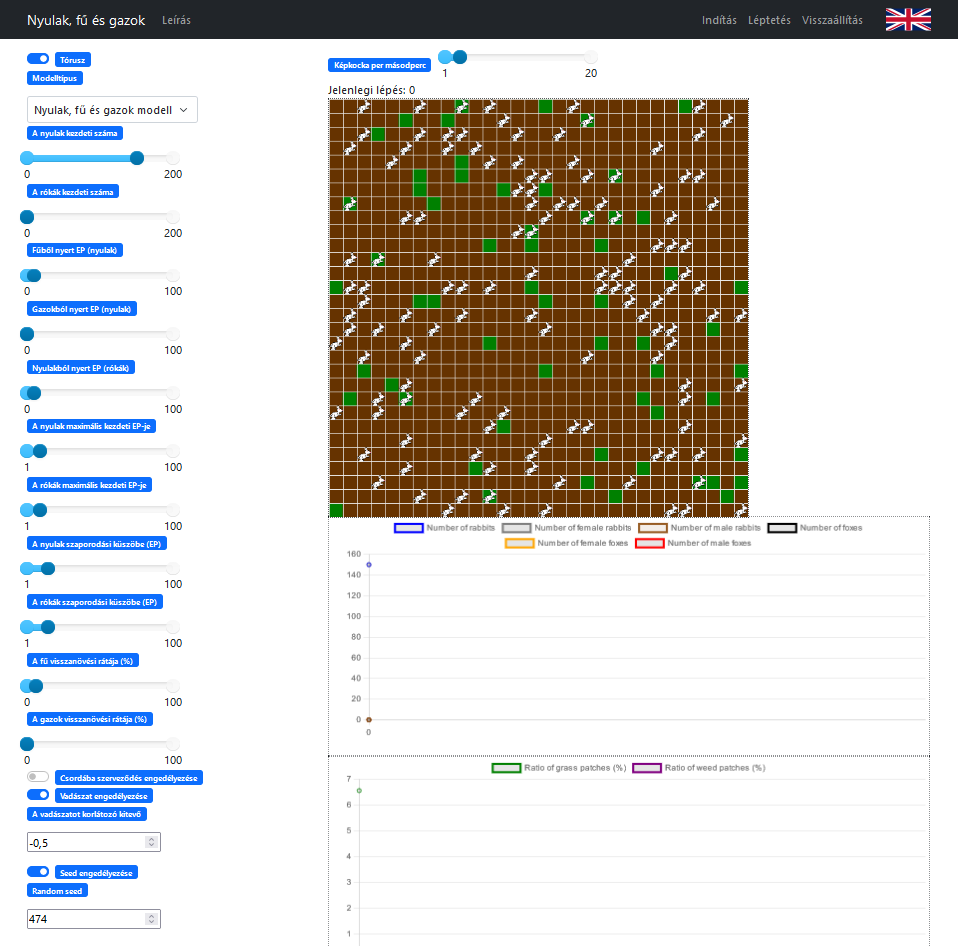
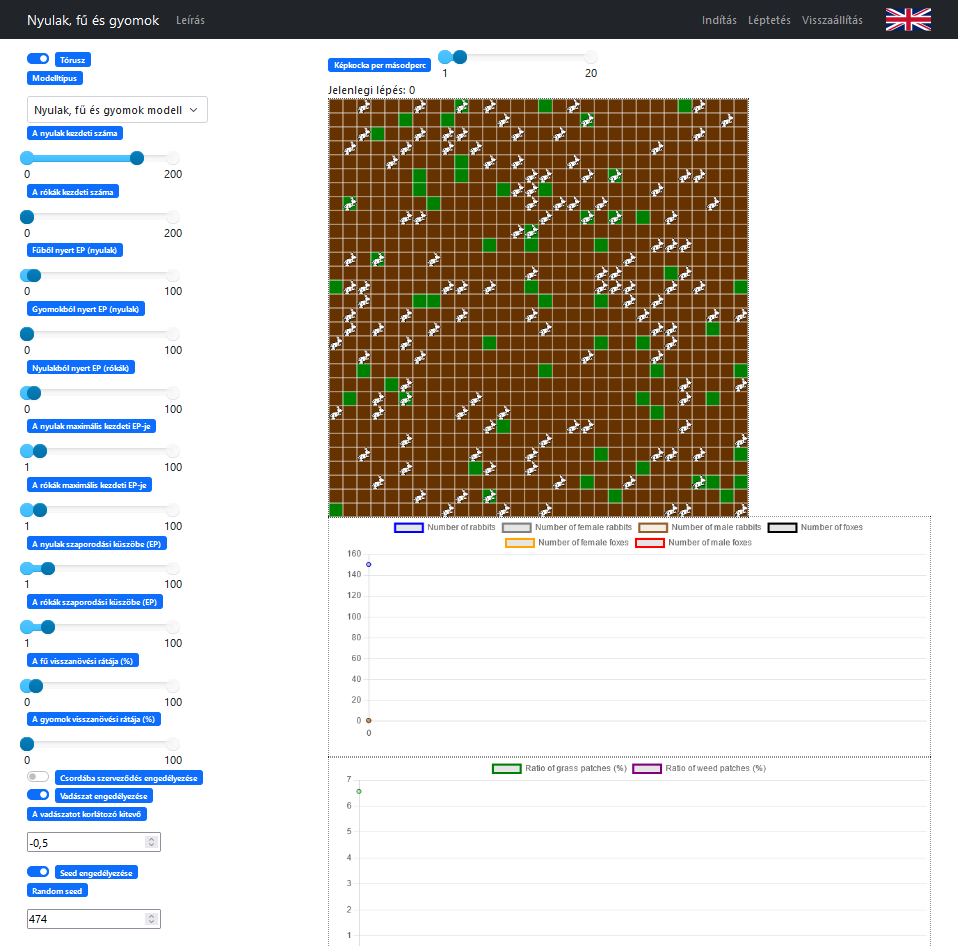
Documentation progress

diff --git a/rabbitgrassweed/js/LangSwitch.js b/rabbitgrassweed/js/LangSwitch.js
@@ -12,7 +12,7 @@ navbar.innerHTML += `
 `
 
 // Initialize description
-fetch("rabbitgrassweed/text/eng_description.md")
+fetch("rabbitgrassweed/docs/eng_description.md")
     .then(response => response.text())
     .then(text => description.innerHTML = text)
 
@@ -58,7 +58,7 @@ function HeaderToHun() {
     document.getElementsByClassName("navbar-brand")[0].innerText = "Nyulak, fű és gyomok"
     document.getElementsByClassName("modal-title")[0].innerText = "Nyulak, fű és gyomok leírás"
 
-    fetch("rabbitgrassweed/text/hun_description.md")
+    fetch("rabbitgrassweed/docs/hun_description.md")
         .then(response => response.text())
         .then(text => description.innerHTML = text)
 }
@@ -145,7 +145,7 @@ function HeaderToEng() {
     document.getElementsByClassName("navbar-brand")[0].innerText = "Rabbits, Grass and Weeds"
     document.getElementsByClassName("modal-title")[0].innerText = "About Rabbits, Grass and Weeds"
 
-    fetch("rabbitgrassweed/text/eng_description.md")
+    fetch("rabbitgrassweed/docs/eng_description.md")
         .then(response => response.text())
         .then(text => description.innerHTML = text)
 }

diff --git a/rabbitgrassweed/docs/hun_description.md b/rabbitgrassweed/docs/hun_description.md
@@ -5,29 +5,31 @@
 <h2>Előszó</h2>
 
 A "Nyulak, fű és gyomok" egy NetLogoban készült ágens alapú modell saját programozású mesa implementációja, illetve továbbfejlesztése.
-Ez a modell egy növényevőfaj és annak kétféle táplálékának populációinak együttélését modellezi háromféleképpen.
+Ez a modell egy növényevőfaj és annak kétféle táplálékának populációinak együttélését modellezi.
 Az alapértelmezett modelltípus az eredeti modellt hivatott a lehető leghűbben implementálni, míg a "Bővített modell" típusban az egyedenek neme is van.
+
+Egy ilyen modellt főként a mezőgazdaság és a természetvédelem területén lehet hasznosítani. A mezőgazdaságon belül az állattartás megtervezésénél lehet hasznos, míg a természetvédelemben a veszélyeztetett fajok érdekében történő beavatkozások hatásai szimulálhatók. Természetesen pontosan ez a modell egyikre sem alkalmas, mert primitív, azonban egy kiindulási alapként szolgálhat. A modell jelenlegi állapotában főként szemléltetésre használható.
 
 <h2>A modelltípusok működési jellemzői</h2>
 
 <h3>Közös jellemzők</h3>
 
 Mindkét modelltípusban van egy növényevőfaj, amelyet nyulakkal reprezentálunk.
-Ezek a nyulak egy olyan területen élnek, ahol fű és gyomok nőhetnek valószínűségi alapon, amelyeknek különböző a tápértéke.
-Továbbá minden egyednek van valamennyi energiája (továbbiakban energiapont, röviden EP), amely minden lépésben (a modell állapotváltozása) eggyel csökken, de evés által a megevett táplálék típusától függő paraméternyivel megnő. Ha elfogy az energiájuk, akkor meghalnak. Ezek mellett képesek is szaporodni, amennyiben egy megadott szint feletti energiapontjuk van, azonban ekkor az energiájuk megfeleződik. A modell egy lépésében a nyúl ágensek egy szomszédos cellába lépnek át, ahol a szomszédos cellák a Moore-féle szomszédokat jelenti az ágens aktuális cellájának kivételével, tehát a nyúl ágensek nem maradhatnak egy helyben.
+Ezek a nyulak egy olyan területen élnek, ahol fű vagy gyomok nőhetnek valószínűségi alapon, amelyeknek van egy adott tápértéke.
+Továbbá minden egyednek van valamennyi energiája (továbbiakban energiapont, röviden EP), amely minden lépésben (a modell állapotváltozása) eggyel csökken, de evés által a megevett táplálék típusától függő paraméternyivel megnő. Ha elfogy az energiájuk, akkor meghalnak. Ezek mellett képesek is szaporodni, amennyiben egy megadott szint feletti energiapontjuk van, azonban ekkor az energiájuk megfeleződik. A modell egy lépésében az állat ágensek egy szomszédos cellába lépnek át, ahol a szomszédos cellák a Moore-féle szomszédokat jelentik az ágens aktuális cellájának kivételével, tehát az állat ágensek nem maradhatnak egy helyben.
 
-Az energiapontról annyit érdemes tudni, hogy a program eggyel kevesebb energiaponttal dolgozik, mint ami egy állaton látható a vizualizációs alkalmazásban, ha rájuk tesszük a kurzort. Ez azt hivatott korrigálni, hogy a szaporodási küszöb és a kezdeti maximális EP paraméterek szigorú egyenlőtleséggel működnek. Ezen paraméterek csúszkái a kijelzett értékek szerint állíthatók. Tehát a felhasználónak az alkalmazás legalább 1 EP-t jelez. Az állatokra rátéve a kurzort látható egy "Layer: 1" érték is, ami réteget jelent és kötelező érték. A fű ágenseknél ez az érték 0 és ennek köszönhető, hogy csak az állatokon jelenik meg ez a jelzés.
+Az energiapontról annyit érdemes tudni, hogy a program eggyel kevesebb energiaponttal dolgozik, mint ami egy állaton látható a vizualizációs alkalmazásban, ha rájuk tesszük a kurzort. Ez azt hivatott korrigálni, hogy a szaporodási küszöb és a kezdeti maximális EP paraméterek szigorú egyenlőtlenséget használnak. Ezen paraméterek csúszkái a kijelzett értékek szerint állíthatók. Tehát a felhasználónak az alkalmazás legalább 1 EP-t jelez. Az állatokra rátéve a kurzort látható egy "Layer: 1" érték is, ami réteget jelent és nem elhagyható. A fű ágenseknél ez a réteg 0 és ennek köszönhető, hogy csak az állatokon jelenik meg ez a jelzés.
 
-Az eredeti modellben a fű és gyomok mint "patchek" voltak a cellákba helyezve, míg ebben az implementációban ágensként.
-Mindkét modelltípus esetén a füvet és a gyomokat egy közös fű ágens kezeli, amennyiből annyi van, ahány cella. A fű ágenseknek két állapota van, kinőtt és lelegelt.
+Az eredeti modellben a fű és a gyomok mint "patchek" voltak a cellákba helyezve, míg ebben az implementációban ágensként.
+A füvet és a gyomokat egy közös fű ágens kezeli, amennyiből annyi van, ahány cella. A fű ágenseknek két állapota van, kinőtt és lelegelt.
 Fontos tulajdonság, hogy a cellákban nagyobb valószínűséggel nő ki fű, mint gyomok. Ennek az az oka, hogy először az dől el, hogy gyomok nőhetnek-e ki és utána, hogy fű, azonban ez felülírja gyomokat, amennyiben bekövetkezik. Tehát, ha fű kinőhet a megadott valószínűség szerint, akkor fű nő ki függetlenül attól, hogy gyomok kinőhetnek-e vagy sem. Ez a viselkedés az eredeti modellből származik.
 
-A modell továbbfejlesztése céljából, lehetőség van egy ragadozófaj hozzáadásához, amelyet rókákkal reprezentálunk. A rókák alapértelmezetten ugyanúgy működnek, mint a nyulak, de természetesen a rókák a nyulakat eszik meg. A rókák rendelkeznek a nyulakéhoz hasonló paramétererekkel.
+A modell továbbfejlesztése céljából lehetőség van egy ragadozófaj hozzáadásához, amelyet rókákkal reprezentálunk. A rókák alapvetően ugyanúgy viselkednek, mint a nyulak, de természetesen a rókák a nyulakat eszik meg. Emellett képesek aktívan is vadászni, vagyis csak olyan szomszédos cellába lépni, amelyben van nyúl.
 
 A paraméterek sorrendben és alapértelmezett értékük:
 
 <ul>
-<li>A rács szélessége és magassága, ami csak a kód módosításával állítható. Ennek a vizualizációs alkalmazás korlátai az oka.
+<li>A rács szélessége és magassága, ami csak a kód módosításával állítható a vizualizációs alkalmazás korlátai miatt.
 <br><i>30 x 30</i></li>
 <li>Tórusz: Ha egy állat ágens a rács szélén van, akkor átléphetnek-e a szemben lévő szélre vagy sem.
 <br><i>Igaz</i></li>
@@ -45,7 +47,7 @@ A paraméterek sorrendben és alapértelmezett értékük:
 <br><i>10 és 10</i></li>
 <li>A nyulak és rókák szaporodási küszöbe. Legalább ennyi energiapontra van szüksége egy egyednek a szaporodáshoz.
 <br><i>15 és 15</i></li>
-<li>A fű és gyomok kinövési valószínűsége százalékban. Az eredeti modellben ezrelékben, de a csúszkák ilyen sűrű beosztásű intervallumon pontatlanok.
+<li>A fű és a gyomok kinövési valószínűsége százalékban. Az eredeti modellben ezrelékben, de a csúszkák ilyen sűrű beosztású intervallumon pontatlanok.
 <br><i>6%, eredetileg 15 ezrelék, vagyis 1,5%</i></li>
 <li>A nyulak csordába igyekezzenek-e szerveződni.
 <br><i>Hamis</i></li>
@@ -53,7 +55,7 @@ A paraméterek sorrendben és alapértelmezett értékük:
 <br><i>Igaz</i></li>
 <li>A vadászatot korlátozó kitevő. Lásd lejjebb!
 <br><i><math xmlns="http://www.w3.org/1998/Math/MathML"><mo>-</mo><mn>0,5</mn></math></i></li>
-<li>A random függvényeket szabályzó seed. A seed segítségével reprodukálhatóvá válnak a futtattások, de kikapcsolható.
+<li>A random függvényeket szabályzó seed. A seed segítségével reprodukálhatóvá válnak a futtatások, de kikapcsolható.
 <br><i>Igaz és 474</i></li>
 </ul>
 
@@ -82,11 +84,15 @@ Tehát, ha a kitevő 0, akkor nincs korlátozás. Fontos megjegyezni, hogy a kit
 <h2>Megfigyelések</h2>
 
 A modell elemzés céljából legérdekesebb tulajdonsága a stabilitás, vagyis, hogy a modellben szereplő fajok kihalnak-e vagy sem.<br>
-A fent leírt alapértelmezett paraméterek esetén, amelyek a fű kinövési valószínűsége és az újak kivételével az eredeti modellből származnak, jellemző a stabilitás. A rókákat érintő paraméterek úgy lettek beállítva, hogy 50 kezdeti róka esetén is stabil legyen a modell. Ez utóbbi eset futattható lejjebb és 10000 lépés után is stabil.
+A fent leírt alapértelmezett paraméterek esetén, amelyek a fű kinövési valószínűsége és az újak kivételével az eredeti modellből származnak, jellemző a stabilitás. A rókák paraméterei úgy lettek beállítva, hogy 50 kezdeti róka esetén is stabil legyen a modell. Ez utóbbi eset futtatható lejjebb és 10 000 lépés után is stabil.
 
-Érdekes jelenség, hogy teljesen különböző paraméterek mellett is az indítás után az állatok száma lezuhan, de előfordulhat, hogy a zuhanást egy hirtelen növekedés előzi meg.
+Érdekes jelenség, hogy teljesen különböző paraméterek mellett is az indítás után az állatok száma lezuhan, de előfordulhat, hogy a zuhanást egy kis növekedés előzi meg, azonban ez a seedtől függ.
 
-A
+A modell akkor is stabil marad, ha a modelltípust átállítjuk, azonban rókákkal már ez nem teljesül, mert a rókák kihalnak. Mindkét modelltípusban megmarad a stabilitás, ha a gyomok szaporodási valószínűségét 12% állítjuk, de a gyomok tápértéke továbbra is 0.
+
+Ha a kezdeti rókák száma 50 és az aktív vadászat ki van kapcsolva, akkor a rókák csak úgy élhetnek túl, ha valamilyen paramétert átállítunk. Több teszt futtatása után a nyulak tápértékének növelése bizonyult kifizetődőnek. A minimális tápérték amellett stabil a modell az 12.
+
+A bővített modell rókákkal együtt jellemzően nem stabil, ami a rókák kihalását jelenti, de a nyúl populáció ezután stabilizálódik. Csak szélsőséges paraméterek mellett jellemző a nyulak kihalása. A rókák kihalása jellemzően úgy zajlik, hogy az említett kezdeti csökkenés után a nyulak száma megugrik, amelyet követ a rókák gyarapodása, de már kis mértékű gyarapodás után a nyulak száma olyan szintre zuhan, ami nem képes eltartani a rókákat, így a rókák kihalnak, amely kihalást a rókák aktív vadászata csak felgyorsít. Az egyik legjobb eredmény az, hogy a rókák száma 30 körül marad tartósan, de ugyanezen paraméterek mellett 474-es seeddel ez a szám csak 10. A paraméterek ehhez a kísérlethez a rókák kezdeti száma 75, a nyulak tápértéke 10 EP, a rókák szaporodási küszöbe 30 EP, fű 15% eséllyel nő újra, a rókák nem vadásznak aktívan, seed nem engedélyezve vagy a seed 474.
 
 <h2>A vizualizációs program</h2>
 
